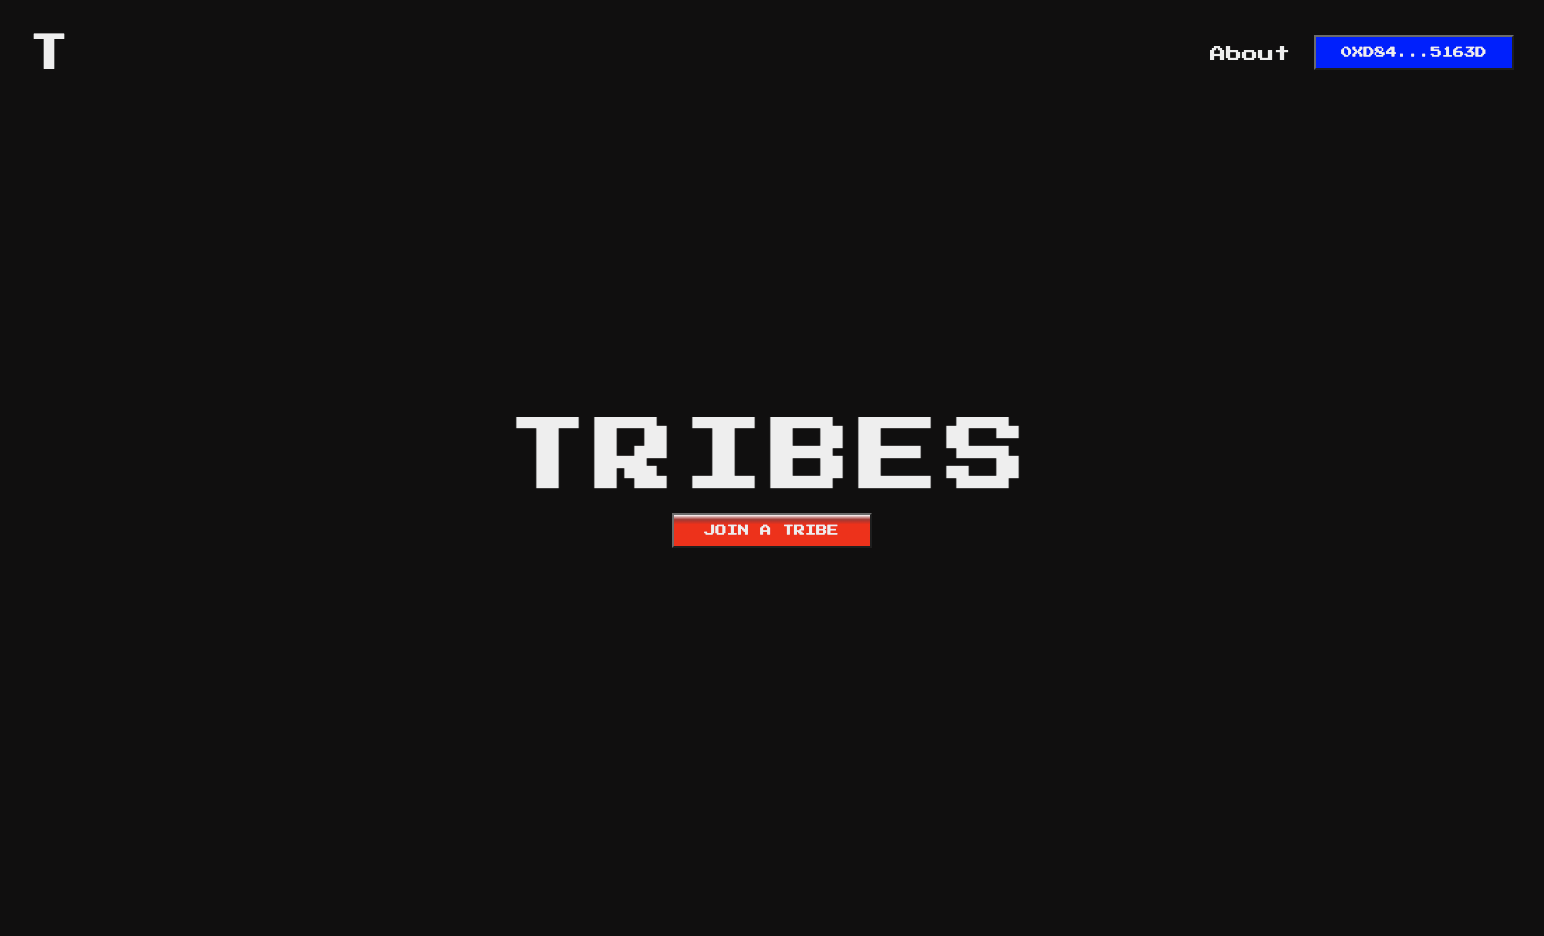
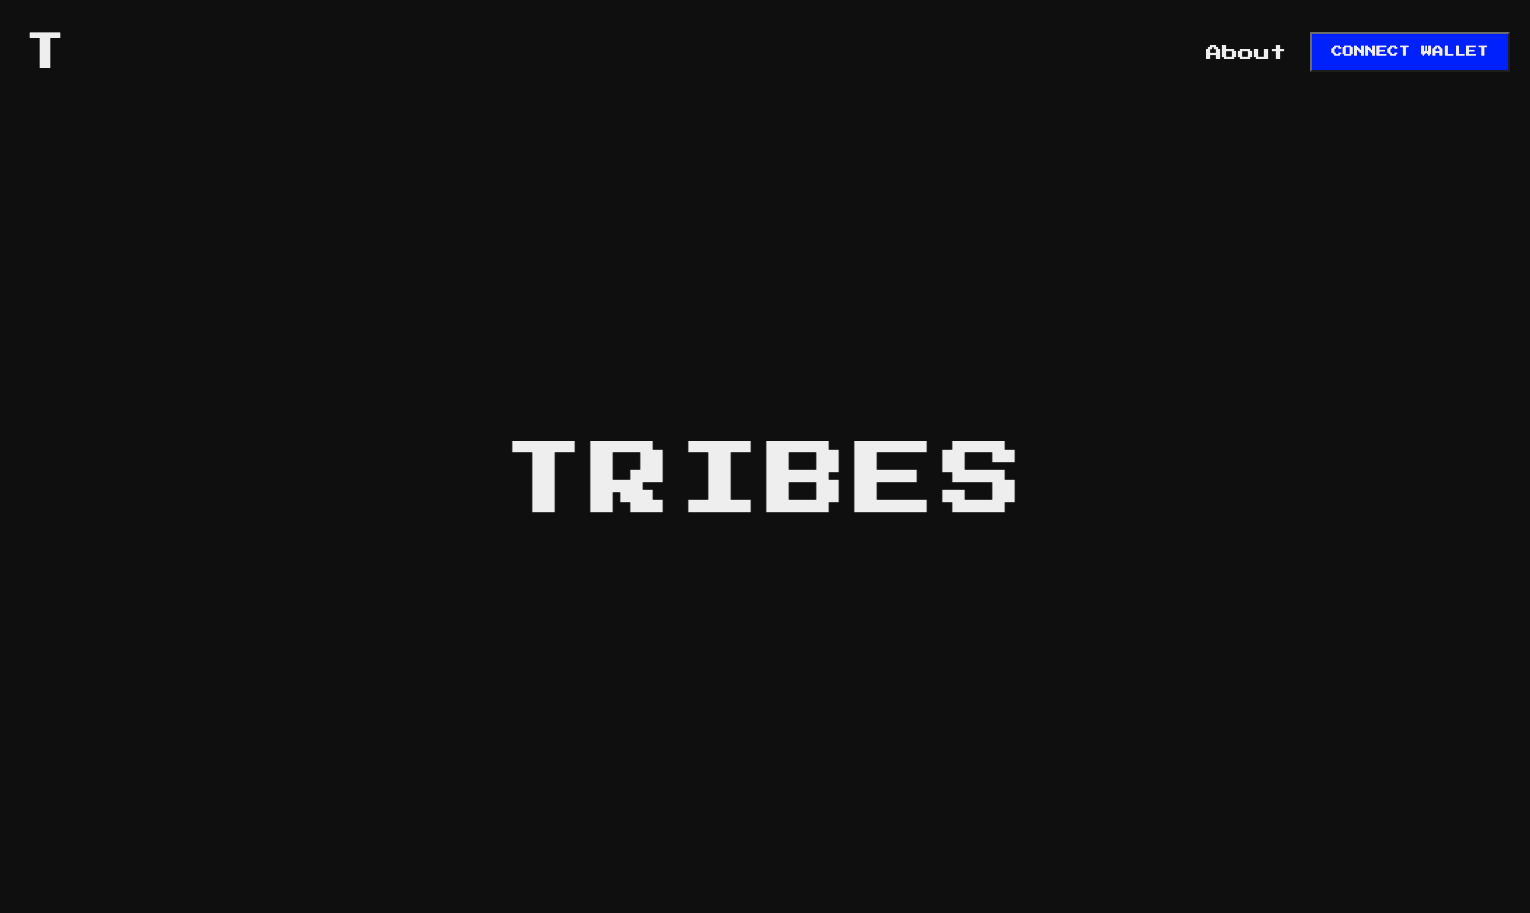
fixed photo

Changed region(s): [[0.3379, 0.4294, 0.6758, 0.5827], [0.768, 0.0307, 1.0, 0.092], [0.0, 0.0307, 0.0614, 0.0613]]

diff --git a/README.md b/README.md
@@ -11,7 +11,7 @@
 - [Visual Studio Code](https://code.visualstudio.com/download) (or any IDE for editing JavaScript)
 - [Git](https://git-scm.com/)
 - [Node.js](https://nodejs.org/en/)
-- [Yarn](https://classic.yarnpkg.com/en/docs/install#mac-stable). 
+- [Yarn](https://classic.yarnpkg.com/en/docs/install#mac-stable)
 
 
 ## 🛠 Installation
@@ -41,17 +41,25 @@ To run this project locally:
     Open [http://localhost:3000](http://localhost:3000/) with your browser to see the result. 
 
 
-## Testing & Running the application
+##  🏁 Testing & Running the Application
 If you were successful following the Installation application, you should be greeted with the tribes home page that looks like this:
 <img src="./apps/ethereum/tribes/public/tribes-home.png" alt="tribes"/>
 
-To be able to actually do anything on the dapp, you need a Metmask Wallet and some Rinkeby eth.
 
-If you do not have a metamask wallet, [here](https://www.surgewomen.io/learn-about-web3/set-up-metamask-wallet) is a guide you can follow on how to set up one.
+### Prerequisities
+To be able to interact with the dapp, you need a Metmask Wallet and Rinkeby eth.
 
-To get some Rinkeby eth here are some available faucets you can request from:
+1. **Metamask**
+
+    If you do not have a metamask wallet, [here](https://www.surgewomen.io/learn-about-web3/set-up-metamask-wallet) is a guide you can follow on how to set up one.
+
+2. **Rinkeby Faucets**
+    
+    To get some Rinkeby eth here are some available faucets you can request from:
 - https://faucet.paradigm.xyz/
 - https://app.mycrypto.com/faucet
+
+    Or ask us to send you some in our [Discord Server.](http://discord.gg/decentology)
 
 ## 📌 Important Links and File Locations
 
